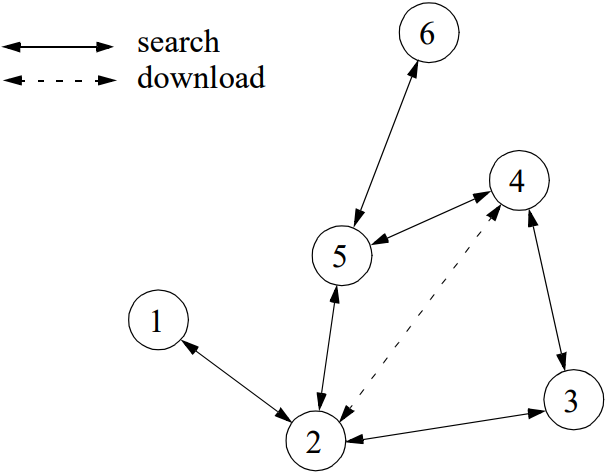
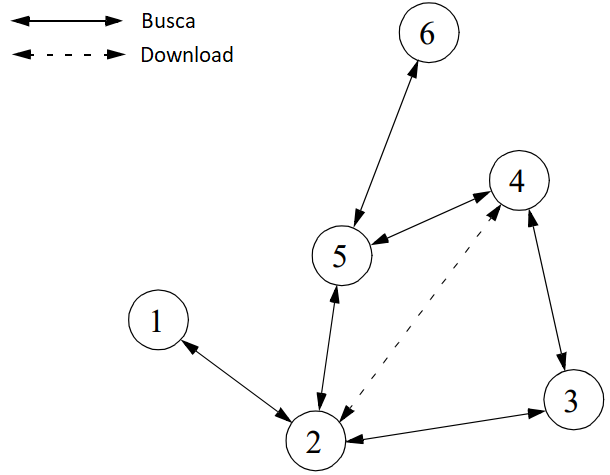
Finish reviewing Models and Algorithms

Changed region(s): [[0.0, 0.0295, 0.4361, 0.2063], [0.1557, 0.1474, 0.1869, 0.1768]]

diff --git a/arquitetura.html b/arquitetura.html
@@ -151,16 +151,7 @@
 							<p class="paragraphText"><span class="spaceTab"></span>As redes estruturadas usam algoritmos e critérios específicos para organizar as conexões da rede. Possuem protocolos que garantem que qualquer nó possa encaminhar uma busca a outro nó que dispõe do arquivo desejado. O procedimento mais utilizado é usando o protocolo DHT (Distributed Hash Tables), ele organiza os processos através de uma tabela hash distribuída. O DHT garante que qualquer nó pode eficientemente buscar na rede um recurso ou arquivo, mesmo quando esse dado recurso é muito raro. </p>
 
 							<br>
-							<!--
-							<h4>-Como ...</h4>
-							<p class="paragraphText"><span class="spaceTab"></span></p>
-							<p class="paragraphText"><span class="spaceTab"></span></p>
 
-							<h4>-Como ...</h4>
-							<p class="paragraphText"><span class="spaceTab"></span></p>
-
-							<a href="#" class="image text"><img src="images/delivery optimization.png" alt=""></a>
-							-->
 
 							<h3>Distributed Hash Table (DHT)</h3>
 							<p class="paragraphText"><span class="spaceTab"></span>Esta classe de sistema distribuído, diferentemente das demais, oferece uma forma de roteamento mais estruturada de modo a obter tanto descentralização quanto eficiência. Uma DHT é particularmente útil quando deseja-se criar um banco de dados distribuído de modo a alcançar maior escalabilidade.</p>
@@ -178,25 +169,41 @@
 							<h2>Algoritmos e Modelos</h2>
 
 							<h3>Diretório Centralizado</h3>
-							<p class="paragraphText"><span class="spaceTab"></span>Nesse modelo os pares se conectam a um diretório central, onde publicam informações sobre o conteúdo que oferecem, para compartilhar, e que se tornou popular com o Napster (serviço de música online P2P, encerrado em 2002). Quando um nó realiza um pedido, o diretório central responde a solicitação associando o pedido ao melhor nó no diretório que o corresponde. Para definir qual o melhor nó é usado uma métrica que pode levar em conta: o custo, a velocidade ou a disponibilidade. Por requerer o servidor do diretório para fins de gerenciamento (hospedar informação dos participantes), esse modelo pode ser classificado como uma rede híbrida. Sendo assim, é evidente um problema de escalabilidade, pois a medida que o número de usuários aumenta, são necessários servidores maiores e mais robustos a fim de cumprir a demanda.</p>
-							<a href="#" class="image text"><img src="images/centraldirectory.png" alt=""></a>
+							<p class="paragraphText"><span class="spaceTab"></span>Neste modelo, os pares da rede se conectam a um diretório central onde publicam informações sobre o conteúdo que oferecem.
+							Quando um nó realiza um pedido, o diretório central responde à solicitação associando 
+							a requisição ao melhor nó do diretório que o corresponde. Esta escolha de melhor nó é feita utilizando uma métrica que pode levar em conta o custo, a velocidade ou a disponibilidade de cada par.</p>
+							<p class="paragraphText"><span class="spaceTab"></span>Uma aplicação deste paradigma é o Napster, um serviço de música online P2P encerrado em 2002. 
+							Devido ao fato de requerer um servidor de diretório para fins de gerenciamento (como hospedar informações dos participantes), este modelo pode ser classificado como uma rede híbrida. 
+							Sendo assim, sua escalabilidade fica comprometida devido à necessidade de servidores maiores e mais robustos para cumprir a demanda à medida que o número de usuários aumenta.</p>
+							<div class="4u 6u(3) centerImage size0-6"><span class=" image fit"><img src="images/centraldirectory.png" alt="" /></span></div>
 							<br>
 							<br>
+							
 							<h3>Busca por Inundação</h3>
-							<p class="paragraphText"><span class="spaceTab"></span>Diferentemente do modelo do Diretório Centralizado, esse é um modelo que pode ser considerado P2P puro. Nesse caso, não há um sistema central de gerenciamento que anuncia o compartilhamento de recursos. A busca por determinado arquivo é realizada enviando uma mensagem a todos os nós adjacentes. Esses nós adjacentes também enviam uma mensagem aos demais nós conectados a eles e assim por diante até obterem uma resposta positiva ou um número máximo de saltos (TTL). Embora não seja muito eficiente, pois a requisição de dados causa muito tráfego de sinalização e sem garantia de encontrar o dado solicitado, se o objetivo é alcançar todos os nós na rede ou obter conteúdo raros (compartilhados entre poucos nós), este modelo mostra-se eficaz. </p>
-							<a href="#" class="image text"><img src="images/floodrequest.png" alt=""></a>
+							<p class="paragraphText"><span class="spaceTab"></span>Em contraste com o modelo de Diretório Centralizado descrito acima, a Busca por Inundação pode ser considerada P2P pura. 
+							Neste caso, não há um sistema central de gerenciamento que anuncia o compartilhamento de recursos. A busca por determinado arquivo é realizada enviando-se uma mensagem a todos os nós adjacentes. 
+							Tais vizinhos também enviam recursivamente uma mensagem aos demais nós conectados a eles, até que um número máximo de saltos (TTL) seja alcançado.</p>
+							<p class="paragraphText"><span class="spaceTab"></span>Notamos que este modelo também não é muito escalável, 
+							já que a requisição de dados causa muito tráfego de sinalização sem haver garantias de que o arquivo solicitado será encontrado. 
+							Por outro lado, se o objetivo do sistema é alcançar todos os nós da rede ou obter conteúdos raros (compartilhados entre poucos nós), este modelo mostra-se eficaz desde que o TTL da implementação seja suficientemente elevado. </p>
+							<br>
+							<div class="4u 6u(3) centerImage size0-5"><span class=" image fit"><img src="images/floodrequest.png" alt="" /></span></div>
 							<br>
 							<br>
+							
 							<h3>Roteamento de Documento</h3>
-							<p class="paragraphText"><span class="spaceTab"></span>Trata-se de uma abordagem mais recente, adotada por aplicações como FreeNet (uma plataforma par-a-par de comunicação anti-censura). Este modelo funciona atribuindo um ID aleatório a cada par presente na rede, e garantindo que cada par saiba o número de alguns outros pares. Um documento ou arquivo compartilhado na rede também possui um ID, baseado em um código Hash do seu nome e conteúdo. O arquivo será roteado por cada par, para aquele que possui ID com maior semelhança ao ID do arquivo. Este processo de roteamento é repetido até que o arquivo "chegue" ao par de ID mais próximo. É importante destacar que a cada operação de roteamento é reservada uma cópia local do arquivo em cada par participante do roteamento. </p>
-							<p class="paragraphText"><span class="spaceTab"></span>O processo de busca é análogo ao de armazenar um arquivo recém compartilhado na rede. Ou seja, o pedido é direcionado ao par com ID mais próximo ao ID do arquivo desejado. Isto é repetido até que o arquivo seja encontrado e enviado ao nó que realizou a solicitação. A necessidade de se conhecer o ID do documento de antemão torna a busca mais complicada do que no modelo de inundação por exemplo.
+							<p class="paragraphText"><span class="spaceTab"></span>Trata-se de uma abordagem mais recente, adotada por aplicações como a FreeNet (uma plataforma par-a-par de comunicação anti-censura) que
+							também objetiva o compartilhamento de arquivos. 
+							Este modelo funciona atribuindo-se um ID aleatório a cada par presente na rede, além de garantir que cada par também saiba o número de uma certa quantidade de outros pares. Um documento ou arquivo compartilhado, por sua vez, 
+							também possui um ID, baseado em uma função <i>Hash</i> aplicada ao seu nome e ao seu conteúdo. O arquivo será, então, roteado por cada nó buscando sempre o vizinho cujo ID possua a maior semelhança com o ID do arquivo. Este processo de 
+							roteamento é repetido até que o arquivo "chegue" ao par de ID mais próximo. É importante destacar que, a cada operação de roteamento, é reservada uma cópia local do arquivo em cada par participante da rota. </p>
+							<p class="paragraphText"><span class="spaceTab"></span>O processo de busca é análogo ao de armazenar um arquivo recém compartilhado na rede. Assim, o pedido é direcionado ao par cujo ID 
+							é o mais semelhante ao ID do arquivo desejado. Isto é repetido até que o conteúdo seja encontrado e enviado ao nó que realizou a solicitação. A necessidade de se conhecer o ID do documento de 
+							antemão torna a busca mais complicada do que, por exemplo, no modelo de inundação, mas o número de mensagens de controle é significativamente menor.
 							</p>
-							<a href="#" class="image text"><img src="images/documentrouting.png" alt=""></a>
 							<br>
+							<div class="4u 6u(3) centerImage size1"><span class=" image fit"><img src="images/documentrouting.png" alt="" /></span></div>
 							<br>
-							<h3>Tit-for-Tat</h3>
-							<p class="paragraphText"><span class="spaceTab"></span>Em protocolos como BitTorrent é usado um mecanismo de incentivo conhecido como "Tit-for-Tat". Quando um par seleciona a quem enviar pedaços do arquivo, 
-							é realizada uma medição da taxa em que recebe pacotes de outros nós. Com esta informação em mãos, esse par prioriza os nós que mais contribuem com o seu download.</p>
 						</section>
 
 				</div>

diff --git a/bibliografia.html b/bibliografia.html
@@ -114,7 +114,7 @@
 							<p class="paragraphText"><span class="spaceTab"></span>Segunda imagem do corpo da página "Arquitetura" extraída de: &#60https://pt.wikipedia.org/wiki/Peer-to-peer#/media/File:Overlay_p2p.jpg&#62. Acessado em 30/03/2018.</p>
 							<p class="paragraphText"><span class="spaceTab"></span>Terceira imagem do corpo da página "Arquitetura" <b>adaptada</b> de: &#60http://slideplayer.com.br/slide/333488/&#62. Acessado em 30/03/2018.</p>
 							<p class="paragraphText"><span class="spaceTab"></span>Quarta imagem do corpo da página "Arquitetura" Elaboração própria</p>
-							<p class="paragraphText"><span class="spaceTab"></span>Quinta, sexta e sétima imagens do corpo da página "Arquitetura" extraídas de:
+							<p class="paragraphText"><span class="spaceTab"></span>Quinta, sexta e sétima imagens do corpo da página "Arquitetura" <b>adaptadas</b> de:
 							&#60http://www.hpl.hp.com/techreports/2001/HPL-2001-324.pdf&#62. Acessado em 27/03/2018.</p>
 
 
